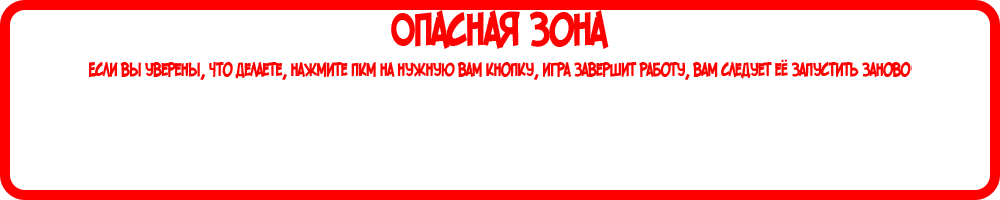
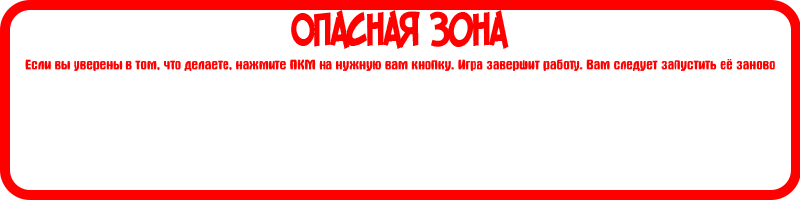
added fons, optimized code

diff --git a/data/settings.py b/data/settings.py
@@ -1,4 +1,5 @@
-from data.main_functions import terminate, load_image, create_sprite, get_value, extract_files
+from data.main_functions import terminate, load_image, create_sprite, get_value, extract_files, \
+    add_fon
 
 import webbrowser
 import pygame
@@ -9,14 +10,14 @@ class Settings:
     def __init__(self, screen, fps, config, path):
         self.screen, self.fps, self.path, self.size, self.config = screen, fps, path, tuple(
             map(int, (get_value(f"{path}\config.txt", "screensize")[0].split('x')))), config
-        self.values_screensize, self.values_screenmode, self.values_fps = ['1366x768', '1920x1080'
-                                                                           ], ['window', 'noframe',
-                                                                               'fullscreen'], [
-                                                                              '30', '60', '90',
-                                                                              '120']
-        self.value_screensize, self.value_screenmode, self.value_fps = self.values_screensize.index(
-            config['screensize']), self.values_screenmode.index(
-            config['screenmode']), self.values_fps.index(config['fps'])
+        self.values_screensize = ['1366x768', '1920x1080']
+        self.values_screenmode = ['window', 'noframe', 'fullscreen']
+        self.values_fps = ['30', '60', '90', '120']
+        self.values_theme = ['day', 'night', 'by_time_of_day']
+        self.value_screensize = self.values_screensize.index(config['screensize'])
+        self.value_screenmode = self.values_screenmode.index(config['screenmode'])
+        self.value_fps = self.values_fps.index(config['fps'])
+        self.value_theme = self.values_theme.index(config['theme'])
 
     def apply(self):
         with open(f"{self.path}\config.txt", encoding="utf-8") as config_for_read:
@@ -27,14 +28,13 @@ class Settings:
             write = []
             for i in range(len(config_for_read)):
                 if config_for_read[i].split(': ')[0] == 'screensize':
-                    write.append(f'screensize: \
-{self.values_screensize[self.value_screensize]}')
+                    write.append(f'screensize: {self.values_screensize[self.value_screensize]}')
                 elif config_for_read[i].split(': ')[0] == 'screenmode':
-                    write.append(f'screenmode: \
-{self.values_screenmode[self.value_screenmode]}')
+                    write.append(f'screenmode: {self.values_screenmode[self.value_screenmode]}')
                 elif config_for_read[i].split(': ')[0] == 'fps':
-                    write.append(f'fps: \
-{self.values_fps[self.value_fps]}')
+                    write.append(f'fps: {self.values_fps[self.value_fps]}')
+                elif config_for_read[i].split(': ')[0] == 'theme':
+                    write.append(f'theme: {self.values_theme[self.value_theme]}')
                 else:
                     write.append(config_for_read[i])
             config_for_write.write('\n'.join(write))
@@ -42,15 +42,18 @@ class Settings:
 
     def menu(self):
         clock = pygame.time.Clock()
-        # fon = pygame.transform.scale(load_image('fon.jpg'), self.size)
+        fon = pygame.transform.scale(load_image('fon_3.png'), self.size)
 
         settings_sprites = pygame.sprite.Group()
 
         x = pygame.sprite.Sprite()
         create_sprite(x, 'x.png', self.size[0] - 100, 50, settings_sprites)
 
+        mat = pygame.sprite.Sprite()
+        create_sprite(mat, f'mat_6_{self.size[1]}.png', 50, 100, settings_sprites)
+
         apply = pygame.sprite.Sprite()
-        create_sprite(apply, 'apply.png', self.size[0] - 300, self.size[1] - 100, settings_sprites)
+        create_sprite(apply, 'apply.png', self.size[0] - 350, self.size[1] - 150, settings_sprites)
 
         title = pygame.sprite.Sprite()
         create_sprite(title, 'settings_title.png', 50, 50, settings_sprites)
@@ -58,30 +61,36 @@ class Settings:
         left_screensize = pygame.sprite.Sprite()
         create_sprite(left_screensize, 'left_arrow.png', 450, 200, settings_sprites)
         right_screensize = pygame.sprite.Sprite()
-        create_sprite(right_screensize, 'right_arrow.png', 800, 200, settings_sprites)
+        create_sprite(right_screensize, 'right_arrow.png', 900, 200, settings_sprites)
 
         left_screenmode = pygame.sprite.Sprite()
         create_sprite(left_screenmode, 'left_arrow.png', 450, 250, settings_sprites)
         right_screenmode = pygame.sprite.Sprite()
-        create_sprite(right_screenmode, 'right_arrow.png', 800, 250, settings_sprites)
+        create_sprite(right_screenmode, 'right_arrow.png', 900, 250, settings_sprites)
 
         left_fps = pygame.sprite.Sprite()
         create_sprite(left_fps, 'left_arrow.png', 450, 300, settings_sprites)
         right_fps = pygame.sprite.Sprite()
-        create_sprite(right_fps, 'right_arrow.png', 800, 300, settings_sprites)
+        create_sprite(right_fps, 'right_arrow.png', 900, 300, settings_sprites)
+
+        left_theme = pygame.sprite.Sprite()
+        create_sprite(left_theme, 'left_arrow.png', 450, 400, settings_sprites)
+        right_theme = pygame.sprite.Sprite()
+        create_sprite(right_theme, 'right_arrow.png', 900, 400, settings_sprites)
 
         developers = pygame.sprite.Sprite()
-        create_sprite(developers, 'developers.png', 50, self.size[1] - 350, settings_sprites)
+        create_sprite(developers, 'developers.png', self.size[0] - 350, self.size[1] - 250,
+                      settings_sprites)
 
         danger_zone = pygame.sprite.Sprite()
-        create_sprite(danger_zone, 'danger_zone.png', 50, self.size[1] - 250, settings_sprites)
+        create_sprite(danger_zone, 'danger_zone.png', 100, self.size[1] - 300, settings_sprites)
 
         recovery_settings = pygame.sprite.Sprite()
-        create_sprite(recovery_settings, 'recovery_settings.png', 275, self.size[1] - 125,
+        create_sprite(recovery_settings, 'recovery_settings.png', 225, self.size[1] - 175,
                       settings_sprites)
 
         new_game = pygame.sprite.Sprite()
-        create_sprite(new_game, 'new_game.png', 575, self.size[1] - 125,
+        create_sprite(new_game, 'new_game.png', 525, self.size[1] - 175,
                       settings_sprites)
 
         while True:
@@ -122,6 +131,16 @@ class Settings:
                                 self.value_fps += 1
                             else:
                                 self.value_fps = 0
+                        elif left_theme.rect.collidepoint(event.pos):
+                            if self.value_theme > 0:
+                                self.value_theme -= 1
+                            else:
+                                self.value_theme = len(self.values_theme) - 1
+                        elif right_theme.rect.collidepoint(event.pos):
+                            if self.value_theme < len(self.values_theme) - 1:
+                                self.value_theme += 1
+                            else:
+                                self.value_theme = 0
                         elif developers.rect.collidepoint(event.pos):
                             return 'developers'
                         elif apply.rect.collidepoint(event.pos):
@@ -140,18 +159,20 @@ class Settings:
                         return
                     elif event.key == pygame.K_RETURN:
                         return self.apply()
-            self.screen.fill((0, 0, 0))  # self.screen.blit(fon, (0, 0))
+            self.screen.blit(fon, (0, 0))
 
             settings_sprites.draw(self.screen)
 
             for i in [[f"Версия конфигурационного файла: {self.config['version']}",
-                       (128, 128, 128), 50, 155, 25, 2],
-                      ["Размер экрана: ", (255, 255, 255), 50, 205, 50, 1],
-                      [self.values_screensize[self.value_screensize], (255, 255, 255), 500, 205, 50,
-                       2], ["Режим экрана: ", (255, 255, 255), 50, 255, 50, 1],
-                      [self.values_screenmode[self.value_screenmode], (255, 255, 255), 500, 255, 50,
-                       2], ["FPS: ", (255, 255, 255), 50, 305, 50, 1],
-                      [self.values_fps[self.value_fps], (255, 255, 255), 500, 305, 50, 2]]:
+                       (128, 128, 128), 100, 150, 25, 2],
+                      ["Размер экрана: ", (255, 255, 255), 100, 200, 50, 1],
+                      [self.values_screensize[self.value_screensize], (255, 255, 255), 500, 200, 50,
+                       2], ["Режим экрана: ", (255, 255, 255), 100, 250, 50, 1],
+                      [self.values_screenmode[self.value_screenmode], (255, 255, 255), 500, 250, 50,
+                       2], ["FPS: ", (255, 255, 255), 100, 300, 50, 1],
+                      [self.values_fps[self.value_fps], (255, 255, 255), 500, 300, 50, 2],
+                      ['Тема: ', (255, 255, 255), 100, 405, 50, 1],
+                      [self.values_theme[self.value_theme], (255, 255, 255), 500, 400, 50, 2]]:
                 self.screen.blit(
                     pygame.font.Font(os.path.join("data", f'font_{str(i[5])}.ttf'), i[4]).render(
                         i[0], True, i[1]), (i[2], i[3]))
@@ -162,10 +183,14 @@ class Settings:
 
 class About:
     def __init__(self, screen, fps, path):
-        self.screen, self.fps, self.size, self.update = screen, fps, tuple(map(int,
-                (get_value(f"{path}\config.txt", "screensize")[0].split('x')))), pygame.USEREVENT + 1
+        self.screen, self.fps, self.size, self.update, self.path = screen, fps, tuple(map(int,
+                                                                                          (get_value(
+                                                                                              f"\
+{path}\config.txt", "screensize")[0].split('x')))), pygame.USEREVENT + 1, path
 
     def menu(self):
+        fon = add_fon(get_value(f"{self.path}\config.txt", 'theme')[0], self.size)
+
         clock = pygame.time.Clock()
 
         about_sprites = pygame.sprite.Group()
@@ -179,20 +204,30 @@ class About:
         title = pygame.sprite.Sprite()
         create_sprite(title, 'about_title.png', 50, 50, about_sprites)
 
+        mat = pygame.sprite.Sprite()
+        create_sprite(mat, f'mat_6_{self.size[1]}.png', 50, 100, about_sprites)
+
         discord = pygame.sprite.Sprite()
-        create_sprite(discord, 'discord.png', 250, 150, about_sprites)
+        create_sprite(discord, 'discord.png', 300, 150, about_sprites)
 
         vk = pygame.sprite.Sprite()
-        create_sprite(vk, 'vk.png', 325, 150, about_sprites)
+        create_sprite(vk, 'vk.png', 375, 150, about_sprites)
 
         youtube = pygame.sprite.Sprite()
-        create_sprite(youtube, 'youtube.png', 400, 150, about_sprites)
+        create_sprite(youtube, 'youtube.png', 450, 150, about_sprites)
+
+        pygame_sprite = pygame.sprite.Sprite()
+        create_sprite(pygame_sprite, 'pygame.png', self.size[0] - 200, self.size[1] - 100,
+                      about_sprites)
+
+        yandex = pygame.sprite.Sprite()
+        create_sprite(yandex, 'yandex.png', self.size[0] - 450, self.size[1] - 100, about_sprites)
 
         pygame.time.set_timer(self.update, 200)
         n = 1
 
         aft_games = pygame.sprite.Sprite()
-        create_sprite(aft_games, os.path.join('animate', f'animate_{n}.png'), 50, 150,
+        create_sprite(aft_games, os.path.join('animate', f'animate_{n}.png'), 100, 150,
                       about_sprites)
         while True:
             for event in pygame.event.get():
@@ -222,9 +257,11 @@ class About:
                 elif event.type == pygame.KEYDOWN and event.key == pygame.K_ESCAPE:
                     return
 
-            self.screen.fill((0, 0, 0))
+            self.screen.blit(fon, (0, 0))
 
-            c, y = 20 if self.size[1] == 768 else 30, 300
+            about_sprites.draw(self.screen)
+
+            c, y = 15 if self.size[1] == 768 else 25, 250
             for line in titles:
                 count = 1
                 for symbol in line:
@@ -237,6 +274,5 @@ class About:
                 self.screen.blit(text, text.get_rect(center=(self.size[0] // 2, y)))
                 y += c
 
-            about_sprites.draw(self.screen)
             pygame.display.flip()
             clock.tick(self.fps)

diff --git a/data/menu.py b/data/menu.py
@@ -7,7 +7,7 @@ from cv2 import VideoCapture  # для воспроизвдения застав
 from datetime import datetime, date
 
 from data.main_functions import terminate, load_image, create_sprite, put_sprite, add_xp, \
-    format_xp, get_value
+    format_xp, get_value, add_fon
 
 
 class Menu:
@@ -42,6 +42,7 @@ class Menu:
 
     def menu(self):
         buttons_tuple = ('Play', 'Play_With_Friend', 'Play_With_Bot', 'Settings', 'Achievements')
+        fon = add_fon(get_value(f"{self.path}\config.txt", 'theme')[0], self.size)
 
         clock = pygame.time.Clock()
 
@@ -72,13 +73,13 @@ class Menu:
         while True:
             if right:
                 if x < (300 * self.n) - 1:
-                    x += 50
+                    x += 150
                 else:
                     x += 1  # корректировка
                     right = False
             if left:
                 if x > (300 * self.n) + 1:
-                    x -= 50
+                    x -= 150
                 else:
                     x -= 1
                     left = False
@@ -153,8 +154,7 @@ class Menu:
                             terminate()
                         return buttons_tuple[self.n]
 
-            # fon = pygame.transform.scale(load_image('fon.jpg'), self.size)
-            self.screen.fill((0, 0, 0))  # self.screen.blit(fon, (0, 0))
+            self.screen.blit(fon, (0, 0))
             menu_sprites.draw(self.screen)
             arrow_sprites.draw(self.screen)
             text = format_xp(f"{self.path}/statistic.txt")[0].split('\n')
@@ -197,6 +197,8 @@ class Achievements:
                                        key=lambda x: float(x[4]), reverse=True)
 
     def menu(self):
+        fon = pygame.transform.scale(load_image('fon_4.png'), self.size)
+
         clock = pygame.time.Clock()
 
         menu_sprites = pygame.sprite.Group()
@@ -233,18 +235,16 @@ class Achievements:
                             a, f = a - 175, f + 1
                     elif event.key == pygame.K_ESCAPE:
                         return
-            self.screen.fill((0, 0, 0))
 
-            y = a
+            self.screen.blit(fon, (0, 0))
+
+            achievement_sprites, y, text = pygame.sprite.Group(), a, []
             for i in range(len(self.achievements)):
-                achievement_sprites = pygame.sprite.Group()
-
                 achievement = self.achievements[i]
 
                 mat = pygame.sprite.Sprite()
                 create_sprite(mat, f'mat_{str(achievement[4]).split(".")[0]}_{self.size[1]}.png', 50,
-                              y,
-                              achievement_sprites)
+                              y, achievement_sprites)
 
                 frame = pygame.sprite.Sprite()
                 create_sprite(frame, f'frame_{achievement[3]}.png', 145, y + 25,
@@ -256,26 +256,25 @@ class Achievements:
                 except TypeError:
                     pass
 
-                achievement_sprites.draw(self.screen)
-
-                for j in [[str(i + 1), (255, 255, 255), 75, y + 25, 50, 1],
-                          [achievement[1], (255, 255, 255), 400, y + 25, 50, 1],
-                          [achievement[2], (192, 192, 192), 400, y + 100, 20, 2],
-                          ["Прогресс", (192, 192, 192), 1000 if self.size[1] == 768 else 1100,
-                           y + 10, 25, 2],
-                          [f"{int(achievement[4] * 100)}%", (255, 255, 255),
-                           1000 if self.size[1] == 768 else 1100, y + 45, 50, 1],
-                          ["Награда", (192, 192, 192), 1150 if self.size[1] == 768 else 1500, y + 10,
-                           25, 2],
-                          [f"{achievement[6]} XP", (255, 255, 255),
-                           1150 if self.size[1] == 768 else 1500, y + 45, 50, 1],
-                          [achievement[5], (255, 255, 255), 1150 if self.size[1] == 768 else 1500,
-                           y + 100, 25, 2]]:
-                    self.screen.blit(
-                        pygame.font.Font(os.path.join("data", f'font_{str(j[5])}.ttf'), j[4]).render(
-                            j[0], True, j[1]), (j[2], j[3]))
-
+                text.extend([[str(i + 1), (255, 255, 255), 75, y + 25, 50, 1],
+                             [achievement[1], (255, 255, 255), 400, y + 25, 50, 1],
+                             [achievement[2], (192, 192, 192), 400, y + 100, 20, 2],
+                             ["Прогресс", (192, 192, 192), 1000 if self.size[1] == 768 else 1100,
+                              y + 10, 25, 2], [f"{int(achievement[4] * 100)}%", (255, 255, 255),
+                                               1000 if self.size[1] == 768 else 1100, y + 45, 50, 1],
+                             ["Награда", (192, 192, 192), 1150 if self.size[1] == 768 else 1500,
+                              y + 10, 25, 2], [f"{achievement[6]} XP", (255, 255, 255),
+                                               1150 if self.size[1] == 768 else 1500, y + 45, 50, 1],
+                             [achievement[5], (255, 255, 255), 1150 if self.size[1] == 768 else 1500,
+                              y + 100, 25, 2]])
                 y += 175
+
+            achievement_sprites.draw(self.screen)
+
+            for j in text:
+                self.screen.blit(
+                    pygame.font.Font(os.path.join("data", f'font_{str(j[5])}.ttf'), j[4]).render(
+                        j[0], True, j[1]), (j[2], j[3]))
 
             menu_sprites.draw(self.screen)
 
